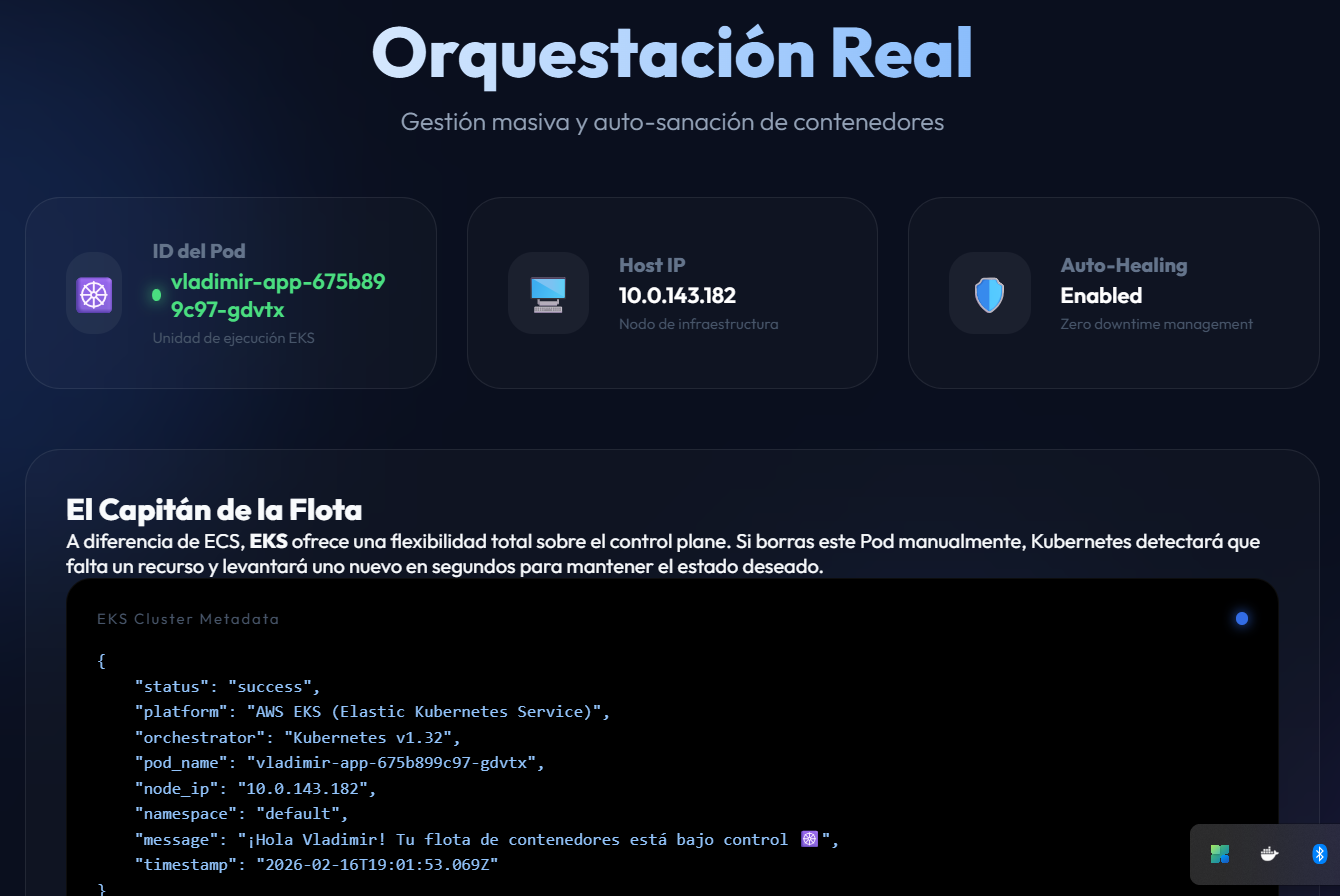
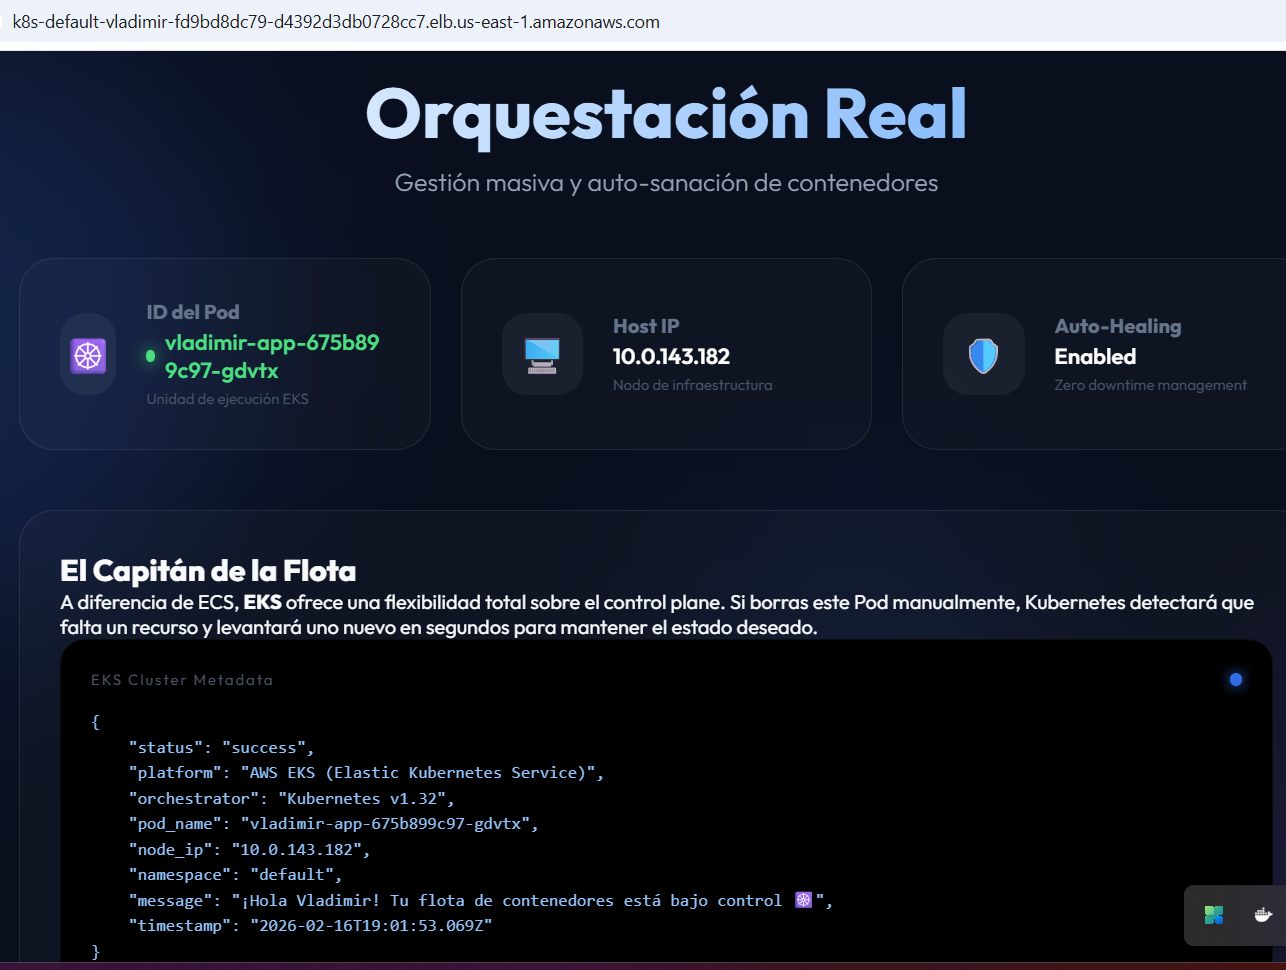
docs: explicar concepto de self-healing y finalizar reporte de visualización

diff --git a/caso-k-kubernetes-eks/VISUALIZATION.md b/caso-k-kubernetes-eks/VISUALIZATION.md
@@ -61,6 +61,21 @@ A continuación se presentan los espacios para las capturas de pantalla que vali
 > **Acción**: Captura del navegador accediendo a la App a través del DNS del Load Balancer.
 
 ![Dashboard Moderno](./img/eks-dashboard-glassmorphism.png "Dashboard Moderno con Glassmorphism")
+### 6. Prueba de Auto-Sanación (Self-Healing) ✅
+**¿Qué estamos viendo aquí?**
+Esta es la característica más potente de Kubernetes. En sistemas tradicionales, si un proceso falla, un humano debe levantarlo. En este proyecto:
+
+1.  **Estado Deseado**: Configuramos `replicas: 3` en el `deployment.yaml`.
+2.  **El Incidente**: Al ejecutar `kubectl delete pod`, estamos simulando un fallo crítico de hardware o software.
+3.  **La Respuesta**: El **Control Plane** de EKS detecta que solo hay 2 pods vivos (discrepancia).
+4.  **La Sanación**: En milisegundos, Kubernetes ordena crear un nuevo Pod para volver a tener 3. 
+
+**Resultado Final**: Disponibilidad del 100% incluso ante fallos.
+- **Evidencia**: `Age: 5s` en el nuevo pod contra `Age: 50m` en los antiguos.
+
+---
+
+*Fin del Reporte Técnico de Visualización - Caso K.*
 
 ### 6. Prueba de Auto-Sanación (Self-Healing)
 > **Acción**: Collage mostrando el comando `kubectl delete pod` y la recuperación inmediata en la consola.